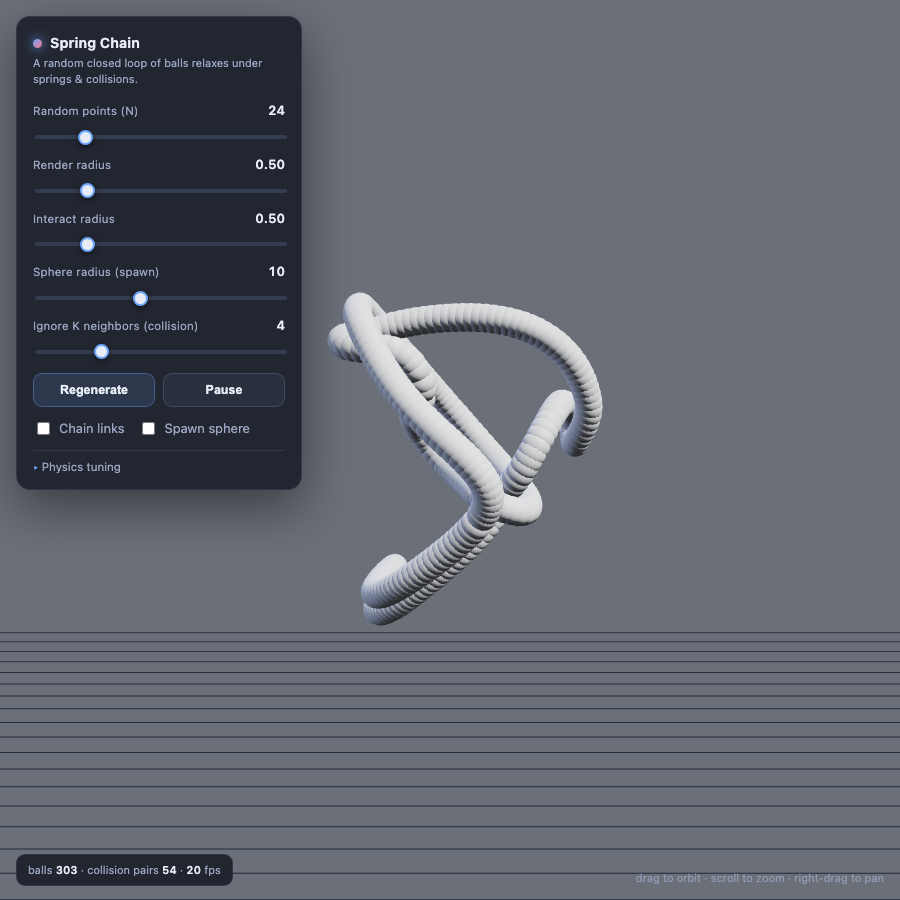
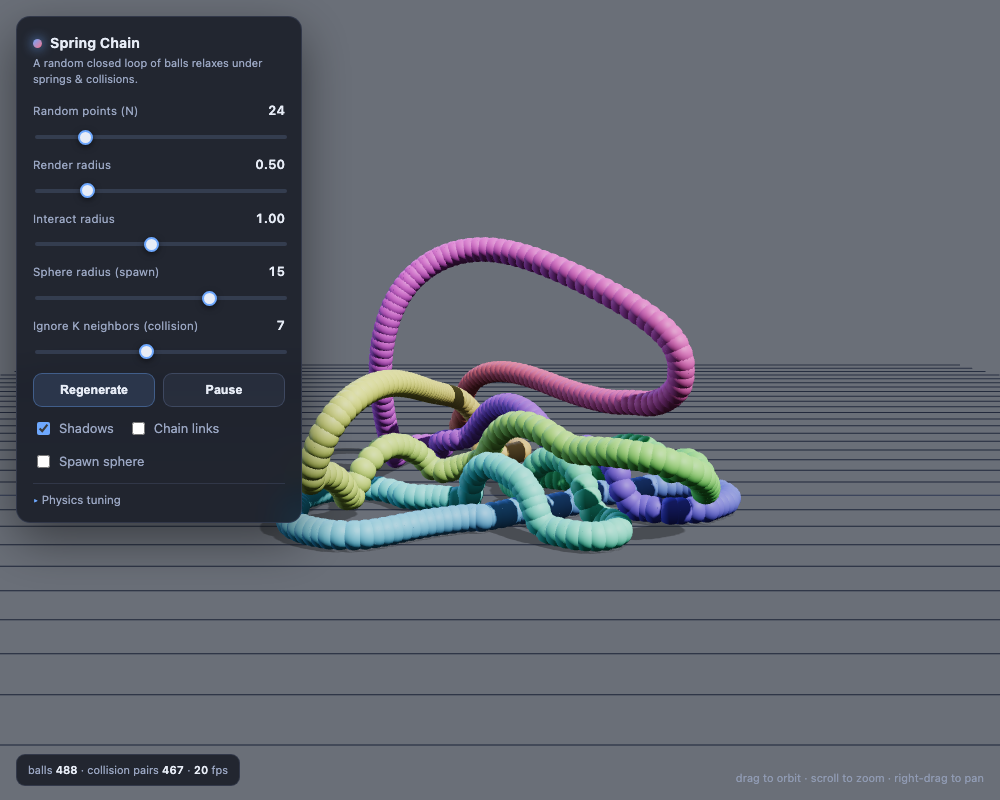
Add gravity, a fixed grid floor, and centroid-tracking camera
Each ball now has weight (tunable "Gravity" slider, default 0.3) pulling the
knot down onto the grid, which is kept fixed; balls can't sink below it (their
bottom rests on the grid). recenter() now only pins x/z, leaving height free so
the knot can fall and pile up. The camera pans vertically each frame to keep
looking at the centroid, preserving the user's orbit angle and zoom.

Refreshes the hero image to the resting-pile look.

Changed region(s): [[0.0, 0.0, 1.0, 0.875], [0.0, 0.9062, 1.0, 1.0], [0.6844, 0.9688, 0.9956, 1.0]]

diff --git a/index.html b/index.html
@@ -178,6 +178,10 @@
       <input type="range" id="jiggle" min="0" max="3" step="0.05" value="0" />
     </div>
     <div class="field">
+      <div class="row"><label for="gravity">Gravity</label><span class="val" id="gravityVal">0.30</span></div>
+      <input type="range" id="gravity" min="0" max="3" step="0.05" value="0.3" />
+    </div>
+    <div class="field">
       <div class="row"><label for="speed">Sim substeps / frame</label><span class="val" id="speedVal">4</span></div>
       <input type="range" id="speed" min="1" max="10" step="1" value="4" />
     </div>
@@ -266,9 +270,13 @@ keyLight.shadow.camera.bottom = -28;
 keyLight.shadow.bias = -0.0004;
 keyLight.shadow.normalBias = 0.06;
 
+// Fixed floor height: the grid, the shadow catcher, and the physics floor all
+// live here, so the knot rests on the visible grid.
+const GROUND_Y = -22;
+
 // Subtle ground grid for spatial orientation
 const grid = new THREE.GridHelper(80, 40, 0x2a3450, 0x1a2236);
-grid.position.y = -22;
+grid.position.y = GROUND_Y;
 scene.add(grid);
 
 // Shadow catcher: a transparent plane that shows ONLY the received shadow, so it
@@ -279,7 +287,7 @@ const ground = new THREE.Mesh(
   new THREE.ShadowMaterial({ opacity: 0.32 })
 );
 ground.rotation.x = -Math.PI / 2;
-ground.position.y = -22;
+ground.position.y = GROUND_Y;
 ground.receiveShadow = true;
 scene.add(ground);
 
@@ -306,6 +314,7 @@ const cfg = {
   collide: 1.0,
   damp: 0.9,
   jiggle: 0,
+  gravity: 0.3,         // downward weight per ball; balls rest on the fixed grid floor
   substeps: 4,
   paused: false,
   showLinks: false,
@@ -513,6 +522,11 @@ function step(dt) {
     for (let i = 0; i < n * 3; i++) force[i] += (Math.random() * 2 - 1) * j;
   }
 
+  // --- Gravity: a constant downward weight on every ball (0 = off).
+  if (cfg.gravity > 0) {
+    for (let i = 0; i < n; i++) force[i * 3 + 1] -= cfg.gravity;
+  }
+
   // --- Integrate (damped semi-implicit Euler).
   const damp = cfg.damp;
   for (let i = 0; i < n * 3; i++) {
@@ -520,17 +534,28 @@ function step(dt) {
     pos[i] += vel[i] * dt;
   }
 
+  // --- Floor: a ball's bottom (center − render radius) can't sink below the
+  // fixed grid. Clamp and kill any downward velocity so it rests on the grid.
+  const floorY = GROUND_Y + cfg.radius;
+  for (let i = 0; i < n; i++) {
+    if (pos[i * 3 + 1] < floorY) {
+      pos[i * 3 + 1] = floorY;
+      if (vel[i * 3 + 1] < 0) vel[i * 3 + 1] = 0;
+    }
+  }
+
   recenter();
 }
 
-// Keep the centroid pinned at the origin.
+// Keep the centroid horizontally centered at x=z=0. The vertical position is
+// left free so gravity can pull the knot down onto the floor.
 function recenter() {
   const n = ballCount;
   if (!n) return;
-  let cx = 0, cy = 0, cz = 0;
-  for (let i = 0; i < n; i++) { cx += pos[i * 3]; cy += pos[i * 3 + 1]; cz += pos[i * 3 + 2]; }
-  cx /= n; cy /= n; cz /= n;
-  for (let i = 0; i < n; i++) { pos[i * 3] -= cx; pos[i * 3 + 1] -= cy; pos[i * 3 + 2] -= cz; }
+  let cx = 0, cz = 0;
+  for (let i = 0; i < n; i++) { cx += pos[i * 3]; cz += pos[i * 3 + 2]; }
+  cx /= n; cz /= n;
+  for (let i = 0; i < n; i++) { pos[i * 3] -= cx; pos[i * 3 + 2] -= cz; }
 }
 
 // Adaptive level-of-detail along the cycle: keep the spacing of ball centers
@@ -615,11 +640,8 @@ function syncInstances() {
   const n = ballCount;
   instMesh.count = n;
   const r = cfg.radius;
-  let minY = Infinity;
   for (let i = 0; i < n; i++) {
-    const y = pos[i * 3 + 1];
-    if (y < minY) minY = y;
-    dummy.position.set(pos[i * 3], y, pos[i * 3 + 2]);
+    dummy.position.set(pos[i * 3], pos[i * 3 + 1], pos[i * 3 + 2]);
     dummy.scale.setScalar(r);
     dummy.updateMatrix();
     instMesh.setMatrixAt(i, dummy.matrix);
@@ -629,9 +651,6 @@ function syncInstances() {
   }
   instMesh.instanceMatrix.needsUpdate = true;
   if (instMesh.instanceColor) instMesh.instanceColor.needsUpdate = true;
-  // Park the shadow catcher (and the orientation grid with it) just beneath the
-  // lowest ball, so its bottom touches the plane.
-  if (n) ground.position.y = grid.position.y = minY - r;
 }
 
 function rebuildLinkLine() {
@@ -662,6 +681,20 @@ let fpsAccum = 0, fpsFrames = 0;
 const fpsEl = document.getElementById('fps');
 const pairEl = document.getElementById('pairCount');
 
+// Pan the camera vertically so it always looks at the knot's centroid height.
+// The knot is centered at x=z=0 (recenter), so only the y of the orbit target
+// needs to track. Moving the camera and the target by the same delta keeps the
+// user's orbit angle and zoom intact — it just follows the knot up and down.
+function followCentroidY() {
+  if (!ballCount) return;
+  let cy = 0;
+  for (let i = 0; i < ballCount; i++) cy += pos[i * 3 + 1];
+  cy /= ballCount;
+  const dy = (cy - controls.target.y) * 0.12;   // smooth follow
+  controls.target.y += dy;
+  camera.position.y += dy;
+}
+
 function animate(now) {
   requestAnimationFrame(animate);
   const frameDt = Math.min((now - lastT) / 1000, 0.05);
@@ -678,6 +711,7 @@ function animate(now) {
   syncLinkLine();
   pairEl.textContent = lastPairCount;
 
+  followCentroidY();
   controls.update();
   renderer.render(scene, camera);
 
@@ -715,6 +749,7 @@ bindSlider('spring', 'spring', v => v.toFixed(2));
 bindSlider('collide', 'collide', v => v.toFixed(2));
 bindSlider('damp', 'damp', v => v.toFixed(2));
 bindSlider('jiggle', 'jiggle', v => v.toFixed(2));
+bindSlider('gravity', 'gravity', v => v.toFixed(2));
 bindSlider('speed', 'substeps', v => v | 0);
 
 document.getElementById('regen').addEventListener('click', regenerateSeed);
@@ -759,7 +794,7 @@ requestAnimationFrame((t) => { lastT = t; animate(t); });
 
 // Debug handle for automated testing (harmless in production).
 window.__dbg = {
-  instMesh,
+  instMesh, camera, controls, grid, ground,
   get pos() { return pos; },
   get n() { return ballCount; },
   outputColorSpace: renderer.outputColorSpace,

diff --git a/README.md b/README.md
@@ -24,7 +24,10 @@ into a self-organizing, self-avoiding clump.
      ball, and one longer than `splitRatio · interact radius` gets a ball
      inserted at its midpoint. So the ball count rises and falls automatically
      while the rope finds its equilibrium length.
-   - The **centroid is pinned at the origin** after every step.
+   - **Gravity** gives each ball weight, pulling the knot down onto a fixed
+     grid floor that it can't sink through, so it settles into a resting pile.
+     The centroid is kept horizontally centered (`x=z=0`) while its height is
+     left free, and the camera pans up/down to keep looking at the centroid.
 
 The result: the loop collapses out of its sphere-filling tangle into a compact,
 evenly-beaded, self-avoiding rope that settles at the length where the spring
@@ -65,7 +68,7 @@ software renderers will look dim.
 | **Shadows** | Soft shadows: the rope self-shadows and casts onto a ground catcher. On by default; turn off to skip the shadow pass. |
 | **Chain links** | Draw the loop connectivity as a line. |
 | **Spawn sphere** | Show the wireframe spawn sphere for reference. |
-| **Physics tuning** | LOD merge/split ratios (× interact radius), spring pull, collision push, damping, jiggle, and substeps/frame. |
+| **Physics tuning** | LOD merge/split ratios (× interact radius), spring pull, collision push, damping, jiggle, **gravity**, and substeps/frame. |
 
 Drag to orbit, scroll to zoom, right-drag to pan.
 
